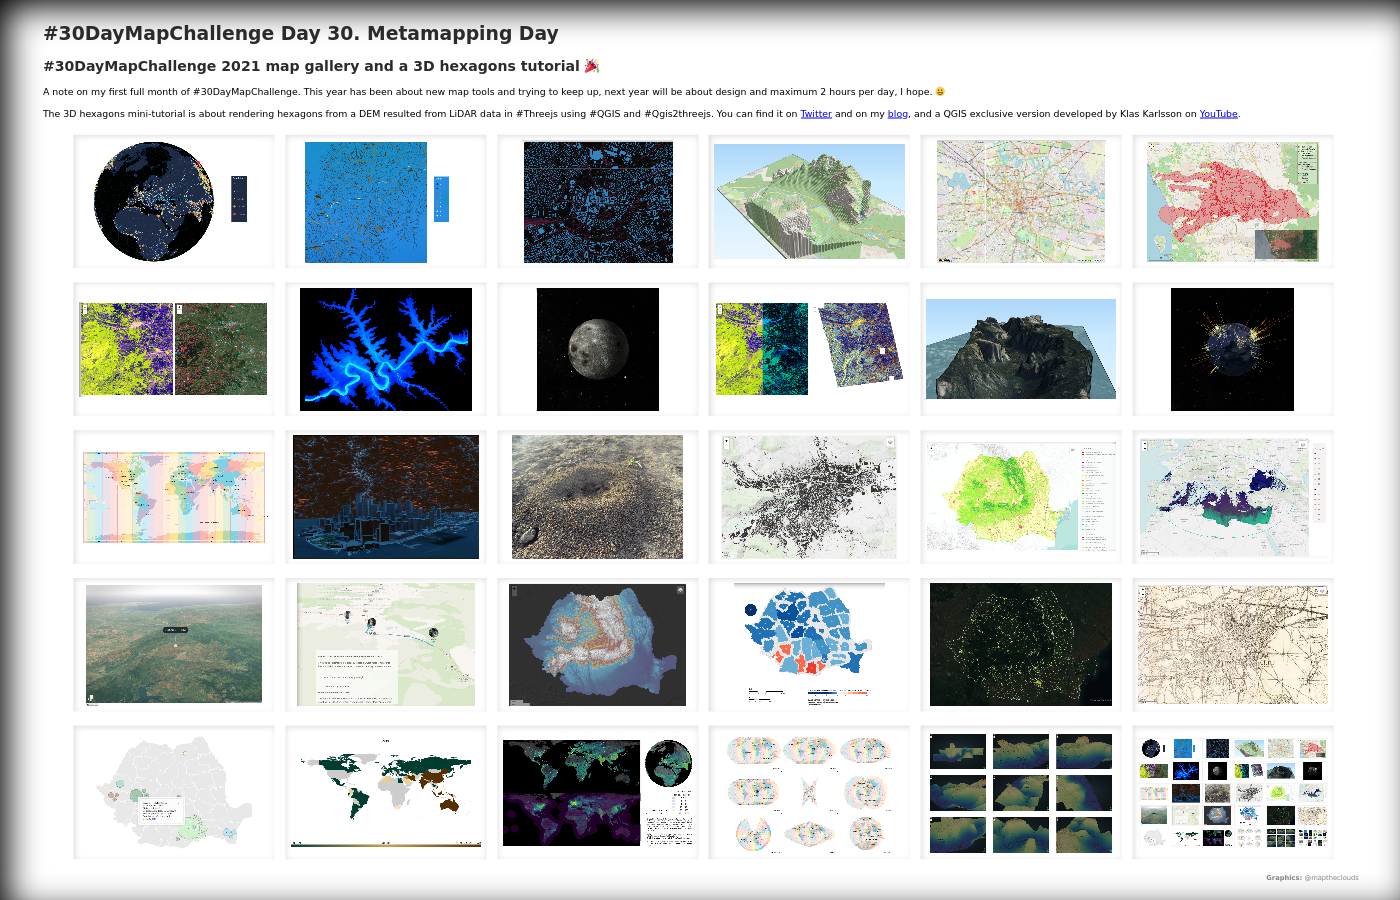
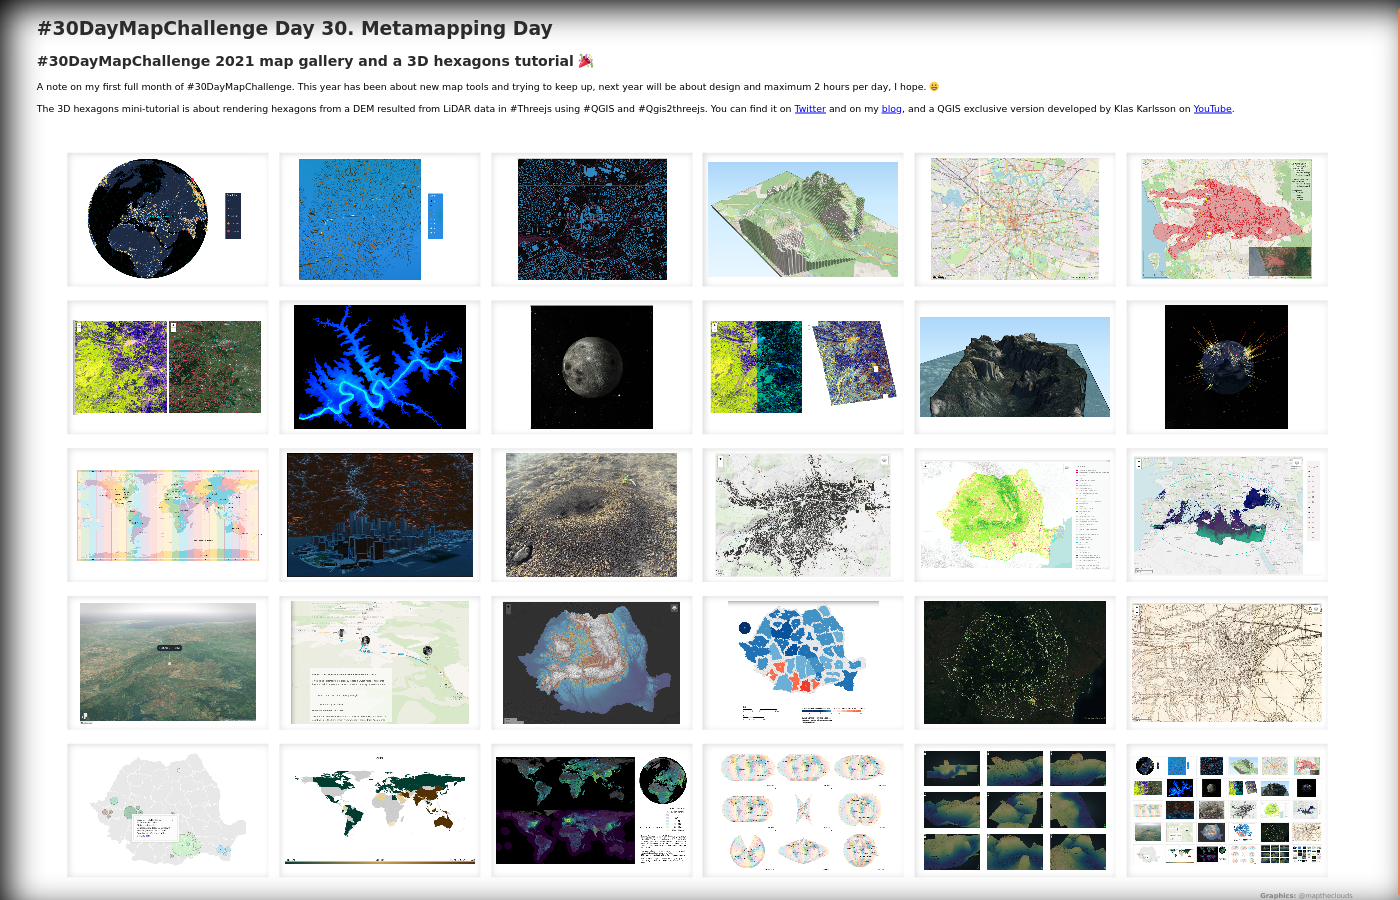
feat: Day 30 - Metamapping

diff --git a/metamapping/css/main.css b/metamapping/css/main.css
@@ -28,3 +28,7 @@
 .centered {
   max-width: 2000px;
 }
+
+.chart-group {
+  margin-top: 3rem;
+}
